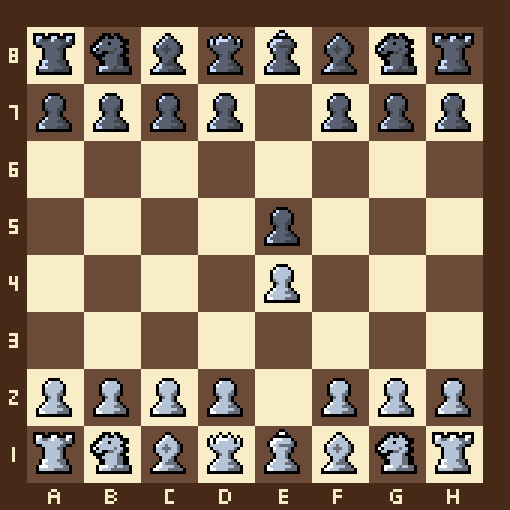
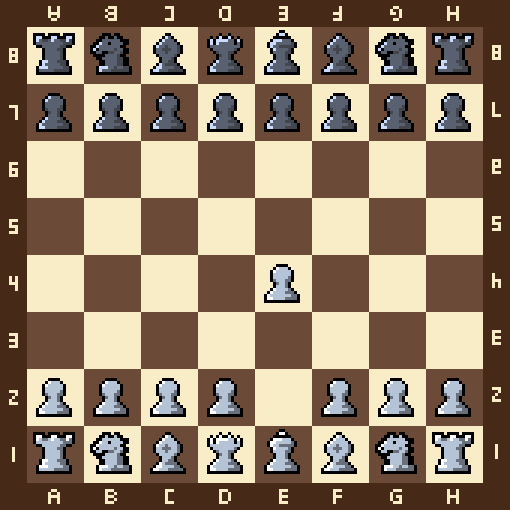
custom error types and auto board rotation

diff --git a/src/lib.rs b/src/lib.rs
@@ -2,7 +2,9 @@
 #![doc = include_str!("../README.md")]
 
 mod chess_assets;
+mod errors;
 pub use chess_assets::asset_manager::ChessAssets;
+use errors::FenToImgError;
 use image::imageops::overlay;
 use std::io::Cursor;
 
@@ -27,8 +29,9 @@ pub fn fen_to_board_img(
     save_dir: &str,
     upscale_multiplier: u32,
     chess_assets: ChessAssets,
-) {
-    let board = fen.split_whitespace().next().unwrap();
+) -> Result<(), FenToImgError>{
+    let fen_parts: Vec<&str> = fen.split_whitespace().collect();
+    let board = fen.split_whitespace().next().ok_or("FEN string is empty")?;
     let mut img = chess_assets.board_image.clone();
     let square_size = (img.width() - 2 * 7) / 8; // Subtract border size from width before dividing by 8
     let piece_size = 16;
@@ -46,10 +49,15 @@ pub fn fen_to_board_img(
             x += digit;
             continue;
         }
-        if let Some(piece_image) = chess_assets.piece_images.get(&char) {
+        if let Some(original_piece_image) = chess_assets.piece_images.get(&char) {
+            let piece_image = if fen_parts[1] == "b" {
+                image::imageops::rotate180(original_piece_image)
+            } else {
+                original_piece_image.clone()
+            };
             overlay(
                 &mut img,
-                piece_image,
+                &piece_image,
                 (x * square_size + offset + border_size) as i64,
                 (y * square_size + offset + border_size) as i64,
             );
@@ -61,9 +69,13 @@ pub fn fen_to_board_img(
     let new_height = img.height() * upscale_multiplier;
     let upscale_filter = image::imageops::FilterType::Nearest;
 
-    let upscaled_img = image::imageops::resize(&img, new_width, new_height, upscale_filter);
+    let mut upscaled_img = image::imageops::resize(&img, new_width, new_height, upscale_filter);
+    
+    if fen_parts[1] == "b" {
+        upscaled_img = image::imageops::rotate180(&upscaled_img);
+    }
 
-    upscaled_img.save(save_dir).unwrap();
+    upscaled_img.save(save_dir).map_err(FenToImgError::from)
 }
 
 /// Converts a FEN (Forsyth–Edwards Notation) string to a chess board image and returns it as a buffer.
@@ -81,8 +93,9 @@ pub fn fen_to_board_buffer(
     fen: &str,
     upscale_multiplier: u32,
     chess_assets: ChessAssets,
-) -> Vec<u8> {
-    let board = fen.split_whitespace().next().unwrap();
+) -> Result<Vec<u8>, FenToImgError> {
+    let fen_parts: Vec<&str> = fen.split_whitespace().collect();
+    let board = fen.split_whitespace().next().ok_or("FEN string is empty")?;
     let mut img = chess_assets.board_image.clone();
     let square_size = (img.width() - 2 * 7) / 8; // Subtract border size from width before dividing by 8
     let piece_size = 16;
@@ -100,10 +113,15 @@ pub fn fen_to_board_buffer(
             x += digit;
             continue;
         }
-        if let Some(piece_image) = chess_assets.piece_images.get(&char) {
+        if let Some(original_piece_image) = chess_assets.piece_images.get(&char) {
+            let piece_image = if fen_parts[1] == "b" {
+                image::imageops::rotate180(original_piece_image)
+            } else {
+                original_piece_image.clone()
+            };
             overlay(
                 &mut img,
-                piece_image,
+                &piece_image,
                 (x * square_size + offset + border_size) as i64,
                 (y * square_size + offset + border_size) as i64,
             );
@@ -115,14 +133,18 @@ pub fn fen_to_board_buffer(
     let new_height = img.height() * upscale_multiplier;
     let upscale_filter = image::imageops::FilterType::Nearest;
 
-    let upscaled_img = image::imageops::resize(&img, new_width, new_height, upscale_filter);
+    let mut upscaled_img = image::imageops::resize(&img, new_width, new_height, upscale_filter);
+
+    if fen_parts[1] == "b" {
+        upscaled_img = image::imageops::rotate180(&upscaled_img);
+    }
 
     let mut buffer = Cursor::new(Vec::new());
     upscaled_img
         .write_to(&mut buffer, image::ImageOutputFormat::Png)
-        .unwrap();
+        .map_err(FenToImgError::from)?;
 
-    buffer.into_inner()
+    Ok(buffer.into_inner())
 }
 
 #[cfg(test)]
@@ -131,11 +153,12 @@ mod tests {
 
     #[test]
     fn fen_to_board_img_test() {
-        fen_to_board_img(
-            "rnbqkbnr/pppppppp/8/8/8/8/PPPPPPPP/RNBQKBNR w KQkq - 0 1",
+        let result = fen_to_board_img(
+            "rnbqkbnr/pppppppp/8/8/4P3/8/PPPP1PPP/RNBQKBNR w",
             "chess_board.png",
             3,
             ChessAssets::default(),
         );
+        result.unwrap();
     }
 }

diff --git a/src/errors.rs b/src/errors.rs
@@ -1,0 +1,19 @@
+use image::ImageError;
+
+#[derive(Debug)]
+pub enum FenToImgError {
+    ImageError(ImageError),
+    FenError(String),
+}
+
+impl From<ImageError> for FenToImgError {
+    fn from(err: ImageError) -> FenToImgError {
+        FenToImgError::ImageError(err)
+    }
+}
+
+impl From<&str> for FenToImgError {
+    fn from(err: &str) -> FenToImgError {
+        FenToImgError::FenError(err.to_string())
+    }
+}

diff --git a/README.md b/README.md
@@ -29,13 +29,17 @@ use fenix::*;
 // 2. The image output directory
 // 3. The upscale multiplier
 // 4. The ChessAssets instance
-fen_to_board_img("rnbqkbnr/pppppppp/8/8/8/8/PPPPPPPP/RNBQKBNR", "chess_board.png", 1, ChessAssets::default());
+// This returns an result(), or an error if it fails to convert the fen to image.
+let result = fen_to_board_img("rnbqkbnr/pppppppp/8/8/8/8/PPPPPPPP/RNBQKBNR", "chess_board.png", 1, ChessAssets::default());
+
+result.unwrap();
 
 // The function `fen_to_board_buffer` also takes three parameters:
 // 1. The FEN string
 // 2. The upscale multiplier
 // 3. The ChessAssets instance
-let img_buffer = fen_to_board_buffer("rnbqkbnr/pppppppp/8/8/8/8/PPPPPPPP/RNBQKBNR", 1, ChessAssets::default());
+// This returns an result type that needs to be matched or unwrapped.
+let img_buffer = fen_to_board_buffer("rnbqkbnr/pppppppp/8/8/8/8/PPPPPPPP/RNBQKBNR", 1, ChessAssets::default()).unwrap();
 
 // The above functions are inefficient because they load all the chess assets every time they are called.
 // For better performance, load the assets once and store them in a variable.
@@ -44,9 +48,9 @@ fn main() {
     let assets = ChessAssets::default();
 
     loop {
-        fen_to_board_img("rnbqkbnr/pppppppp/8/8/8/8/PPPPPPPP/RNBQKBNR", "chess_board.png", 1, &assets);
+        fen_to_board_img("rnbqkbnr/pppppppp/8/8/8/8/PPPPPPPP/RNBQKBNR", "chess_board.png", 1, &assets).unwrap();
 
-        let img_buffer = fen_to_board_buffer("rnbqkbnr/pppppppp/8/8/8/8/PPPPPPPP/RNBQKBNR", 1, &assets);
+        let img_buffer = fen_to_board_buffer("rnbqkbnr/pppppppp/8/8/8/8/PPPPPPPP/RNBQKBNR", 1, &assets).unwrap();
     }
 }
 
